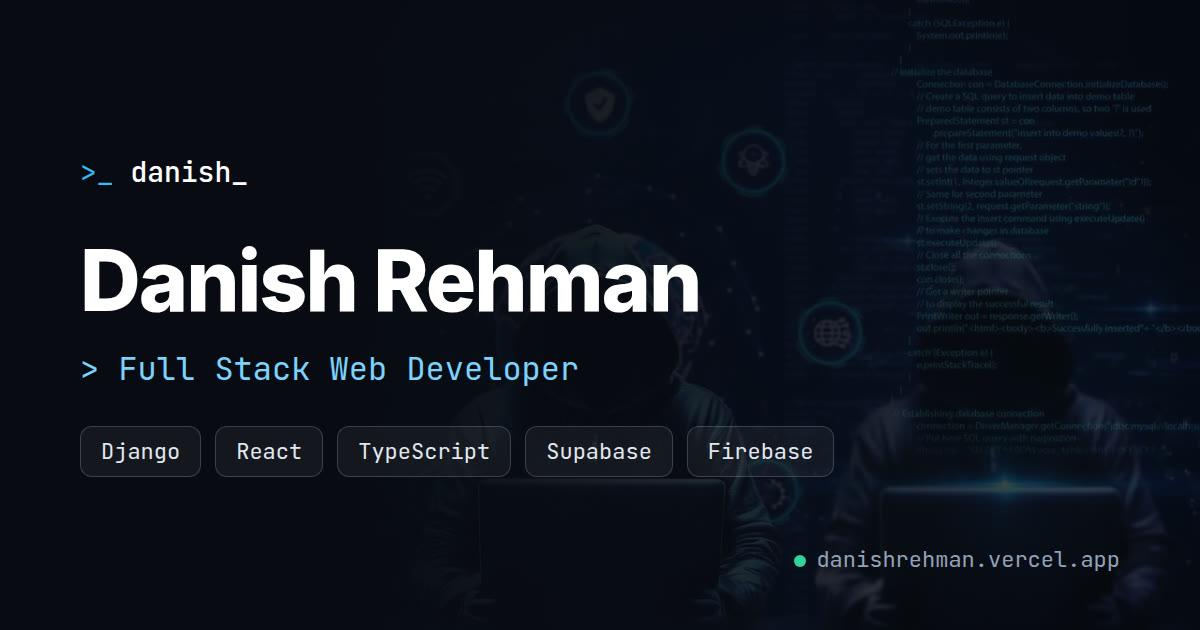
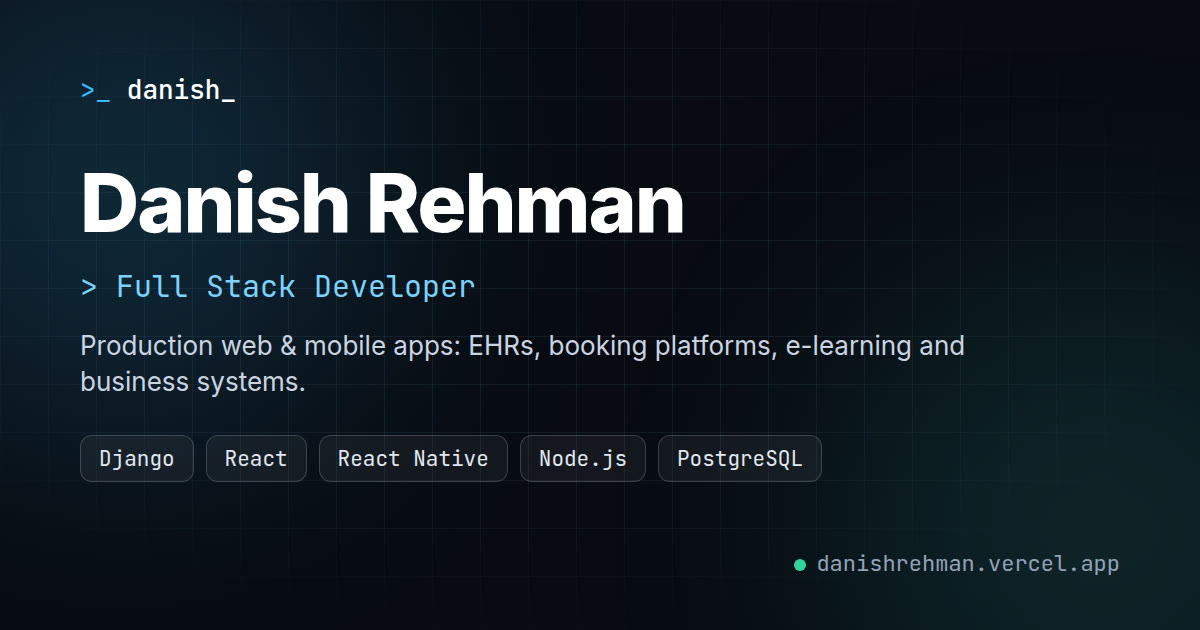
Footer, meta tags and link preview reflect the real stack
- Footer tagline: Django, React and React Native; founder of
  PrimeCurve Solutionz (drop Supabase/Firebase)
- Quick links are real anchors incl. Experience, plus Download CV;
  email icon no longer opens an empty tab
- Meta/OG/Twitter descriptions and JSON-LD knowsAbout updated
- New Open Graph image: grid style, real stack tags

diff --git a/index.html b/index.html
@@ -4,7 +4,7 @@
     <meta charset="UTF-8" />
     <meta name="viewport" content="width=device-width, initial-scale=1.0" />
     <title>Danish Rehman | Full Stack Web Developer (Django + React)</title>
-    <meta name="description" content="Danish Rehman is a Full Stack Web Developer building production web apps with Django, React, TypeScript, Supabase and Firebase. Available for freelance projects and remote roles." />
+    <meta name="description" content="Danish Rehman is a full stack developer building production web and mobile apps (EHRs, booking platforms, e-learning and business systems) with Django, React and React Native. Open to freelance projects and full-time remote roles." />
     <meta name="author" content="Danish Rehman" />
     <link rel="canonical" href="https://danishrehman.vercel.app/" />
     <meta name="theme-color" content="#080c12" />
@@ -19,14 +19,14 @@
     <meta property="og:url" content="https://danishrehman.vercel.app/" />
     <meta property="og:site_name" content="Danish Rehman" />
     <meta property="og:title" content="Danish Rehman | Full Stack Web Developer" />
-    <meta property="og:description" content="I build production web apps with Django, React, TypeScript, Supabase and Firebase. Open to freelance projects and remote roles." />
+    <meta property="og:description" content="Production web and mobile apps with Django, React and React Native, for clients in the US, France and Pakistan. Open to freelance projects and full-time remote roles." />
     <meta property="og:image" content="https://danishrehman.vercel.app/og-image.jpg" />
     <meta property="og:image:width" content="1200" />
     <meta property="og:image:height" content="630" />
     <meta property="og:image:alt" content="Danish Rehman - Full Stack Web Developer" />
     <meta name="twitter:card" content="summary_large_image" />
     <meta name="twitter:title" content="Danish Rehman | Full Stack Web Developer" />
-    <meta name="twitter:description" content="I build production web apps with Django, React, TypeScript, Supabase and Firebase." />
+    <meta name="twitter:description" content="Production web and mobile apps with Django, React and React Native. Open to freelance projects and full-time remote roles." />
     <meta name="twitter:image" content="https://danishrehman.vercel.app/og-image.jpg" />
 
     <!-- Structured data for search engines -->
@@ -40,7 +40,7 @@
         "image": "https://danishrehman.vercel.app/images/danish-rehman.webp",
         "email": "mailto:gdanish365@gmail.com",
         "address": { "@type": "PostalAddress", "addressLocality": "Gujranwala", "addressCountry": "PK" },
-        "knowsAbout": ["Django", "React", "TypeScript", "Python", "Supabase", "Firebase", "PostgreSQL", "REST APIs"],
+        "knowsAbout": ["Django", "Django REST Framework", "Python", "React", "TypeScript", "React Native", "Node.js", "PostgreSQL", "Redis", "Stripe", "Healthcare software"],
         "sameAs": [
           "https://github.com/danig365",
           "https://www.linkedin.com/in/danish-rehman-34788624b/"

diff --git a/src/components/Footer.tsx b/src/components/Footer.tsx
@@ -18,23 +18,22 @@ export default function Footer() {
               </span>
             </div>
             <p className="text-slate-500 dark:text-gray-500 text-sm leading-relaxed max-w-xs">
-              Full Stack Web Developer specializing in Django + React, Supabase & Firebase.
-              Turning ideas into production-ready applications.
+              Full stack developer building production web and mobile apps with Django, React and React Native.
+              Founder of PrimeCurve Solutionz.
             </p>
           </div>
 
           <div>
             <h4 className="text-slate-900 dark:text-white font-semibold mb-4 text-sm uppercase tracking-wider">Quick Links</h4>
             <div className="flex flex-col gap-2">
-              {['About', 'Skills', 'Projects', 'Services', 'Contact'].map((link) => (
-                <button
-                  key={link}
-                  onClick={() => document.getElementById(link.toLowerCase())?.scrollIntoView({ behavior: 'smooth' })}
-                  className="text-slate-500 dark:text-gray-500 hover:text-sky-600 dark:hover:text-sky-300 text-sm transition-colors text-left w-fit"
-                >
+              {['About', 'Experience', 'Skills', 'Projects', 'Services', 'Contact'].map((link) => (
+                <a key={link} href={`#${link.toLowerCase()}`} className="text-slate-500 dark:text-gray-500 hover:text-sky-600 dark:hover:text-sky-300 text-sm transition-colors text-left w-fit">
                   {link}
-                </button>
+                </a>
               ))}
+              <a href={personalInfo.cv} download className="text-slate-500 dark:text-gray-500 hover:text-sky-600 dark:hover:text-sky-300 text-sm transition-colors text-left w-fit">
+                Download CV
+              </a>
             </div>
           </div>
 
@@ -50,8 +49,7 @@ export default function Footer() {
                 <a
                   key={social.label}
                   href={social.href}
-                  target="_blank"
-                  rel="noopener noreferrer"
+                  {...(social.href.startsWith('http') ? { target: '_blank', rel: 'noopener noreferrer' } : {})}
                   aria-label={social.label}
                   className="w-10 h-10 rounded-xl glass-badge flex items-center justify-center text-slate-500 dark:text-gray-500 hover:text-sky-600 dark:hover:text-sky-400 hover:bg-white/[0.08] transition-all"
                 >
